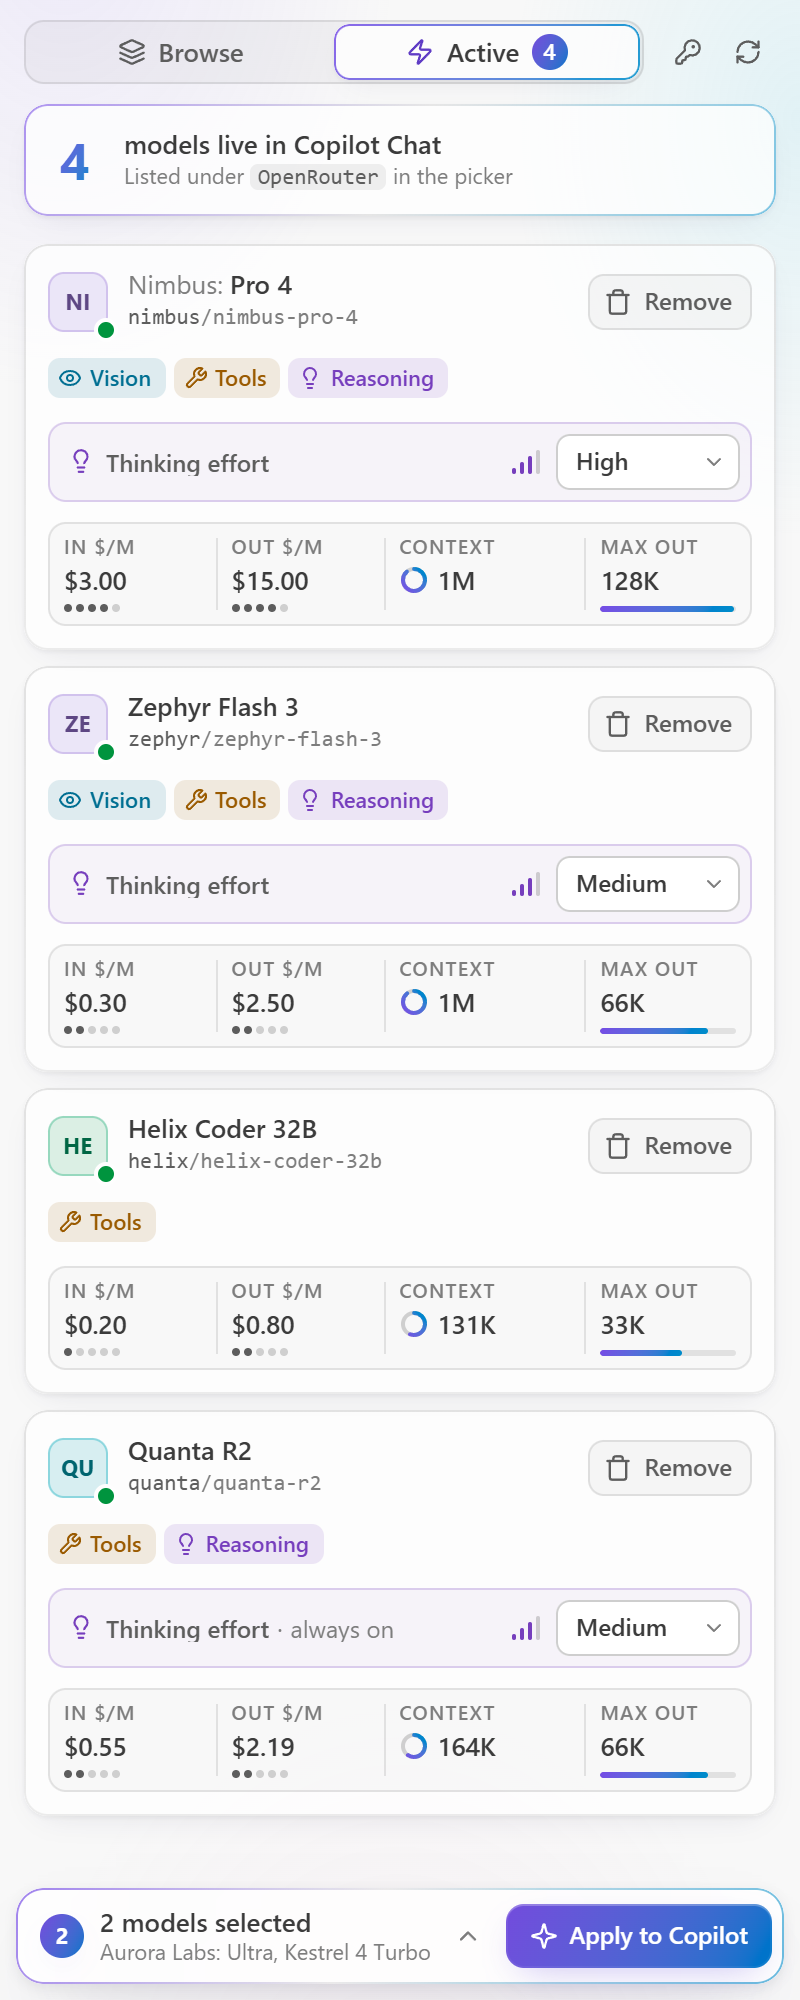
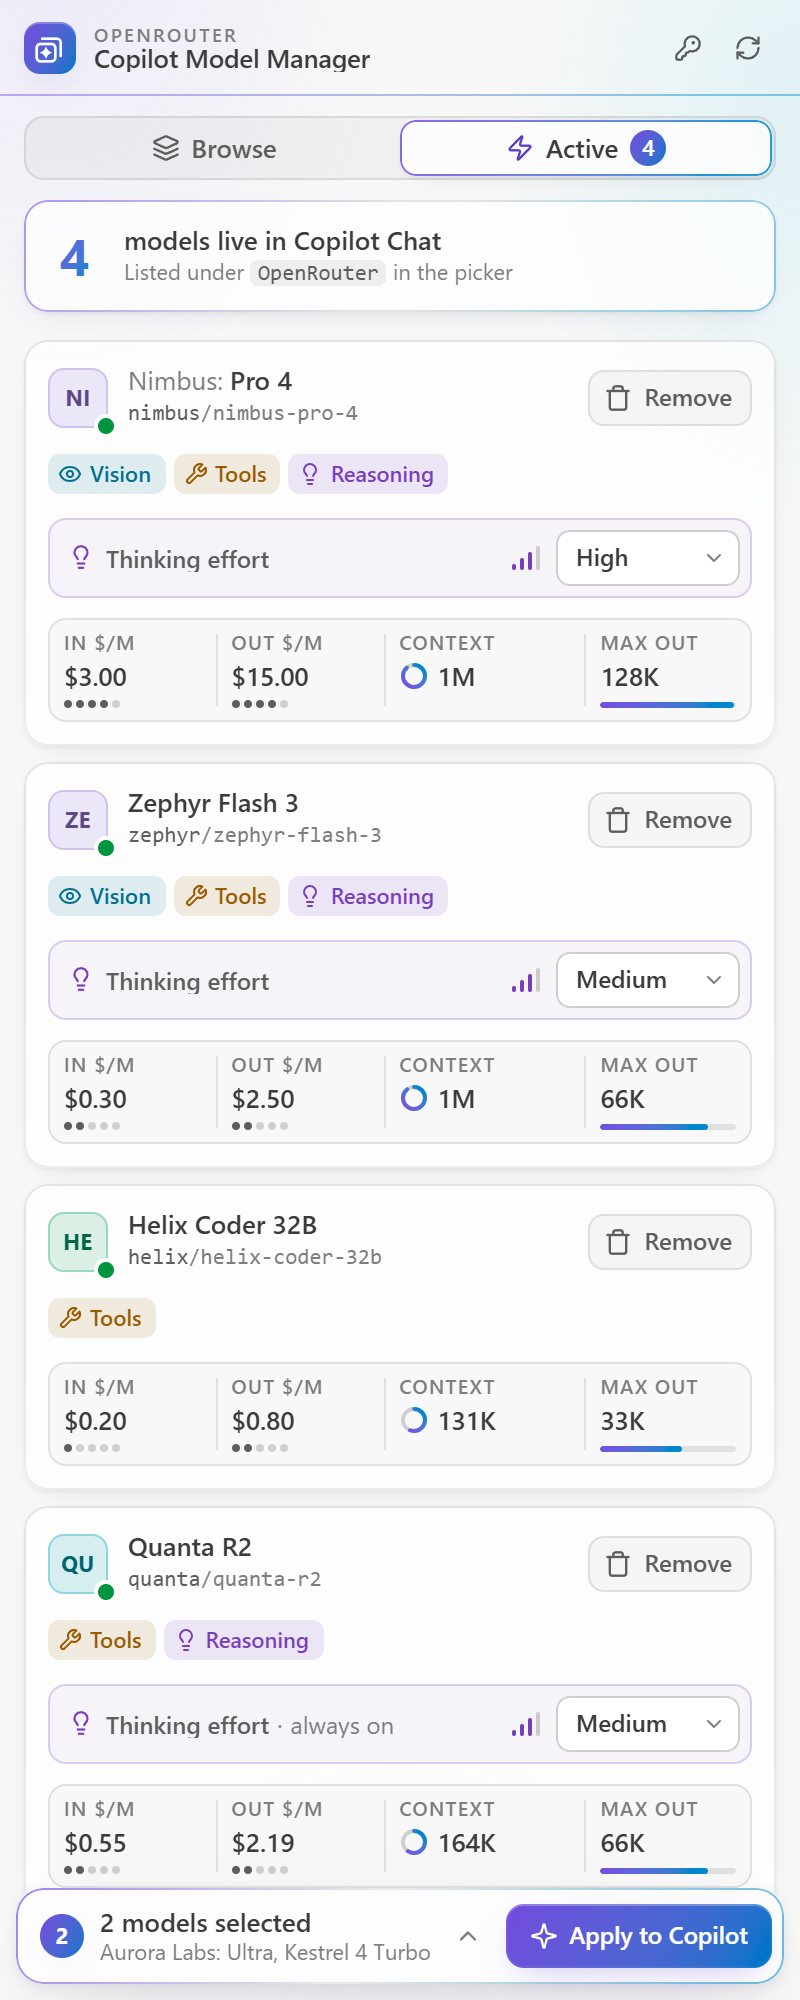
feat: brand header in the sidebar and a single view title
- The panel opens with the logo and "OpenRouter Copilot Model Manager"
  (OpenRouter eyebrow + title), the key and sync buttons beside it, a
  brand hairline, and the Browse / Active tabs below, on the same
  background. In the editor panel brand, tabs and actions stay on one row.
- The view container and the view share one name, so the sidebar header
  reads "OpenRouter Copilot Model Manager" instead of
  "OpenRouter: Model Browser".
- Drop the view title-bar refresh button; the panel header and the
  "OpenRouter: Sync Models from API" command still sync.
- Refresh the README screenshots and note both in the 1.2.0 changelog.

diff --git a/webview/styles/main.css b/webview/styles/main.css
@@ -64,24 +64,45 @@ select:focus-visible { outline: 2px solid var(--focus); outline-offset: 2px; }
 body.vscode-high-contrast .aurora, body.vscode-high-contrast-light .aurora { display: none; }
 
 /* ---------------- Top bar ---------------- */
+/* Sidebar: brand + actions on the first row, a brand hairline, then full-width tabs */
 .topbar {
-  display: flex;
+  display: grid;
+  grid-template-columns: minmax(0, 1fr) auto;
+  grid-template-areas: "brand tools" "rule rule" "tabs tabs";
   align-items: center;
-  gap: var(--s4);
+  column-gap: var(--s2);
   padding: 10px var(--gutter) 8px;
   flex: none;
 }
-.brand { display: none; align-items: center; gap: 10px; min-width: 0; }
+.topbar > .brand { grid-area: brand; }
+.topbar > .toolbar { grid-area: tools; }
+.topbar > .segmented { grid-area: tabs; }
+.topbar-rule {
+  grid-area: rule;
+  height: 1px;
+  margin: 9px calc(-1 * var(--gutter)) 10px;
+  background: var(--grad);
+  opacity: 0.45;
+}
+body.vscode-high-contrast .topbar-rule, body.vscode-high-contrast-light .topbar-rule { background: var(--hc-border, var(--line)); opacity: 1; }
+.brand { display: flex; align-items: center; gap: 9px; min-width: 0; }
 .brand-mark {
-  width: 28px; height: 28px; border-radius: 8px;
+  width: 26px; height: 26px; border-radius: 8px;
+  flex: none;
   display: grid; place-items: center;
   background: var(--grad-btn);
   color: var(--on-brand);
   box-shadow: var(--brand-glow), inset 0 1px 0 rgb(255 255 255 / 0.25);
 }
-.brand-text { display: flex; flex-direction: column; line-height: 1.2; }
-.brand-title { font-size: var(--fs-lg); font-weight: 600; letter-spacing: -0.01em; }
-.brand-sub { font-size: var(--fs-xs); color: var(--fg-3); }
+.brand-text { display: flex; flex-direction: column; line-height: 1.1; min-width: 0; }
+.brand-eyebrow {
+  font-size: 9.5px; font-weight: 600; letter-spacing: 0.12em; text-transform: uppercase;
+  color: var(--fg-3);
+}
+.brand-title {
+  font-size: var(--fs-md); font-weight: 600; letter-spacing: -0.01em; color: var(--fg);
+  white-space: nowrap; overflow: hidden; text-overflow: ellipsis;
+}
 
 /* Segmented tabs with sliding thumb */
 .segmented {
@@ -666,8 +687,10 @@ body.vscode-high-contrast .empty-art::before, body.vscode-high-contrast-light .e
 
 /* ---------------- Panel (editor) layout ---------------- */
 @media (min-width: 700px) {
-  .topbar { padding: 14px var(--gutter) 12px; gap: 16px; }
-  .brand { display: flex; }
+  .topbar { display: flex; padding: 14px var(--gutter) 12px; gap: 16px; }
+  .topbar-rule { display: none; }
+  .brand-mark { width: 28px; height: 28px; }
+  .brand-title { font-size: var(--fs-lg); }
   .segmented { flex: 0 0 260px; margin-left: auto; margin-right: auto; }
   .toolbar { gap: 4px; }
   .filters {

diff --git a/webview/index.html b/webview/index.html
@@ -24,15 +24,23 @@
   <div class="app" id="app">
     <div class="aurora" aria-hidden="true"></div>
 
-    <!-- Top bar: brand (panel only) · tabs · utility actions -->
+    <!-- Top bar. Sidebar: brand + actions on one row, tabs below. Panel: brand · tabs · actions on one row. -->
     <header class="topbar">
       <div class="brand" aria-hidden="true">
-        <span class="brand-mark"><span class="ico" data-icon="sparkle"></span></span>
+        <span class="brand-mark">
+          <!-- Same glyph as resources/icon.svg and resources/activitybar.svg -->
+          <svg width="16" height="16" viewBox="0 0 24 24" fill="none" stroke="currentColor" stroke-width="2" stroke-linecap="round" stroke-linejoin="round">
+            <path d="M6 5h11a3 3 0 0 1 3 3v10"/>
+            <rect x="2" y="9" width="14" height="13" rx="3"/>
+            <path d="M9 10.7Q10 14.5 13.8 15.5Q10 16.5 9 20.3Q8 16.5 4.2 15.5Q8 14.5 9 10.7Z" fill="currentColor" stroke="none"/>
+          </svg>
+        </span>
         <span class="brand-text">
-          <span class="brand-title">Model Manager</span>
-          <span class="brand-sub">OpenRouter → Copilot Chat</span>
+          <span class="brand-eyebrow">OpenRouter</span>
+          <span class="brand-title">Copilot Model Manager</span>
         </span>
       </div>
+      <span class="topbar-rule" aria-hidden="true"></span>
 
       <div class="segmented" role="tablist" aria-label="Views" id="tabs">
         <span class="segmented-thumb" aria-hidden="true"></span>

diff --git a/CHANGELOG.md b/CHANGELOG.md
@@ -11,6 +11,8 @@ This project follows [Semantic Versioning](https://semver.org/).
 - **New model cards.** Each card has a provider monogram, labeled capability chips (Vision, Tools, Reasoning, Image out, Free) and a metric strip with input and output price per million tokens, context window and max output. Price dots, a context ring and a max-output bar let you compare models while scanning.
 - **You can tell drafts from live models.** A model you picked shows **Selected**. A model that is already in Copilot shows a green **In Copilot** button, an **Active** pill and a dot on its monogram. Clicking **In Copilot** removes the model from Copilot and refreshes the Active tab and its count at once; before, the Active tab stayed out of date.
 - **Table view in the editor panel.** At 900px and wider, a Cards / Table switch sits next to sort. The table has a sticky header, and you can sort it by model, input price or context from the header. The panel remembers your choice.
+- **A brand header in the sidebar.** The panel opens with the logo and *OpenRouter Copilot Model Manager*, with the key and sync buttons beside it and the Browse / Active tabs below.
+- **A single title for the sidebar.** The view header reads just *OpenRouter Copilot Model Manager* instead of *OpenRouter: Model Browser*. Its duplicate refresh button is gone; sync from the panel's own header or the `OpenRouter: Sync Models from API` command.
 - **Search and filters stay on screen** while you scroll the list, so you can refine a search without scrolling back up.
 - **Active tab:**
   - A summary at the top shows how many models are live in Copilot Chat.

diff --git a/README.md b/README.md
@@ -43,7 +43,7 @@ Requires VS Code **1.104+** and GitHub Copilot Chat.
 
 ## Quick start
 
-1. Open the **OpenRouter** icon in the activity bar.
+1. Open the **OpenRouter Copilot Model Manager** icon in the activity bar.
 2. Click the **key** icon and paste your OpenRouter API key. Get one at [openrouter.ai/settings/keys](https://openrouter.ai/settings/keys). It is stored in VS Code **SecretStorage**, never in a file.
 3. The catalog loads on its own; click the **sync** icon to refresh it.
 4. Find models: press `/` to search, use the filter chips, the provider menu and sort.
